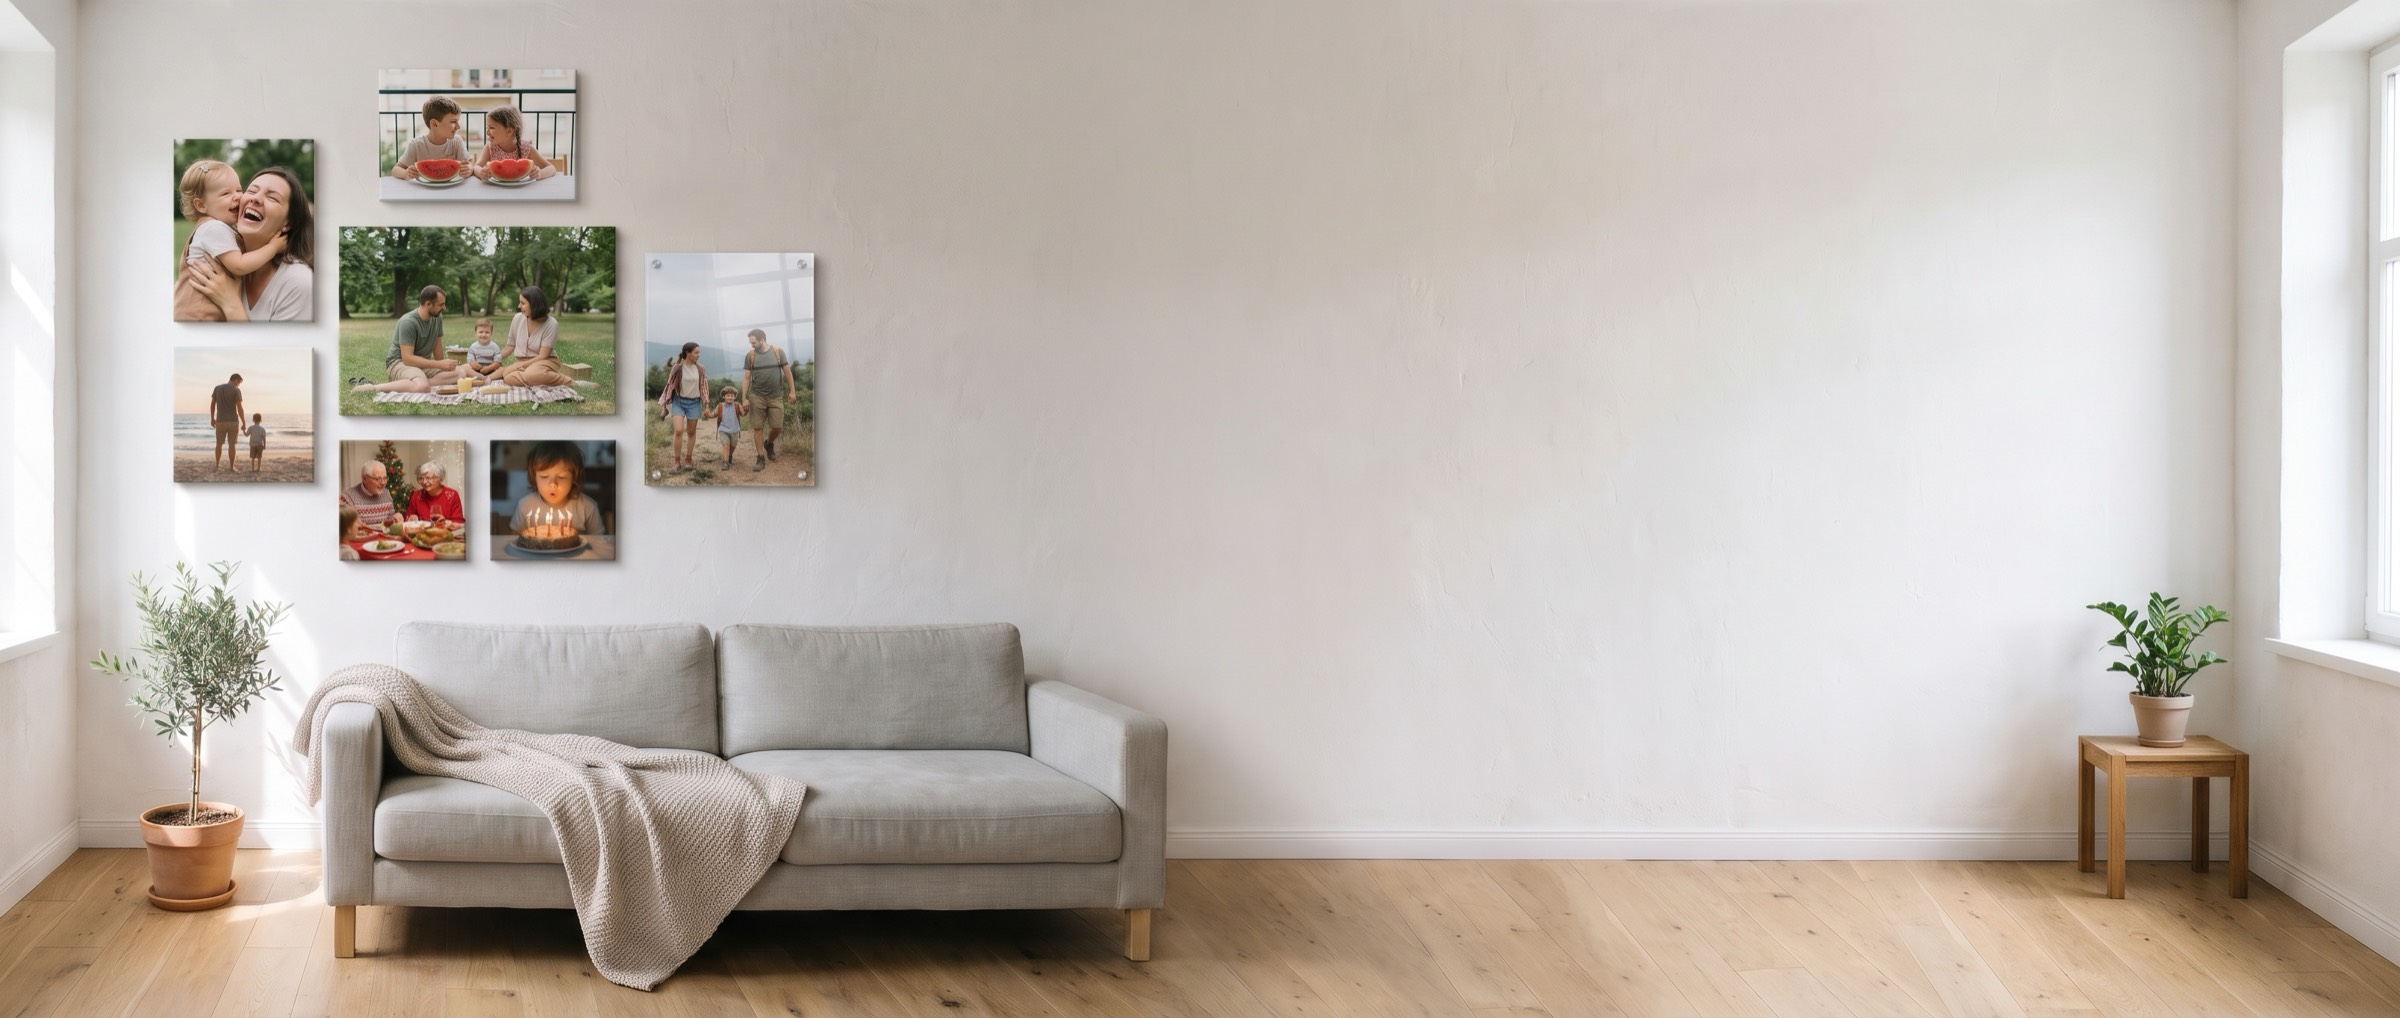
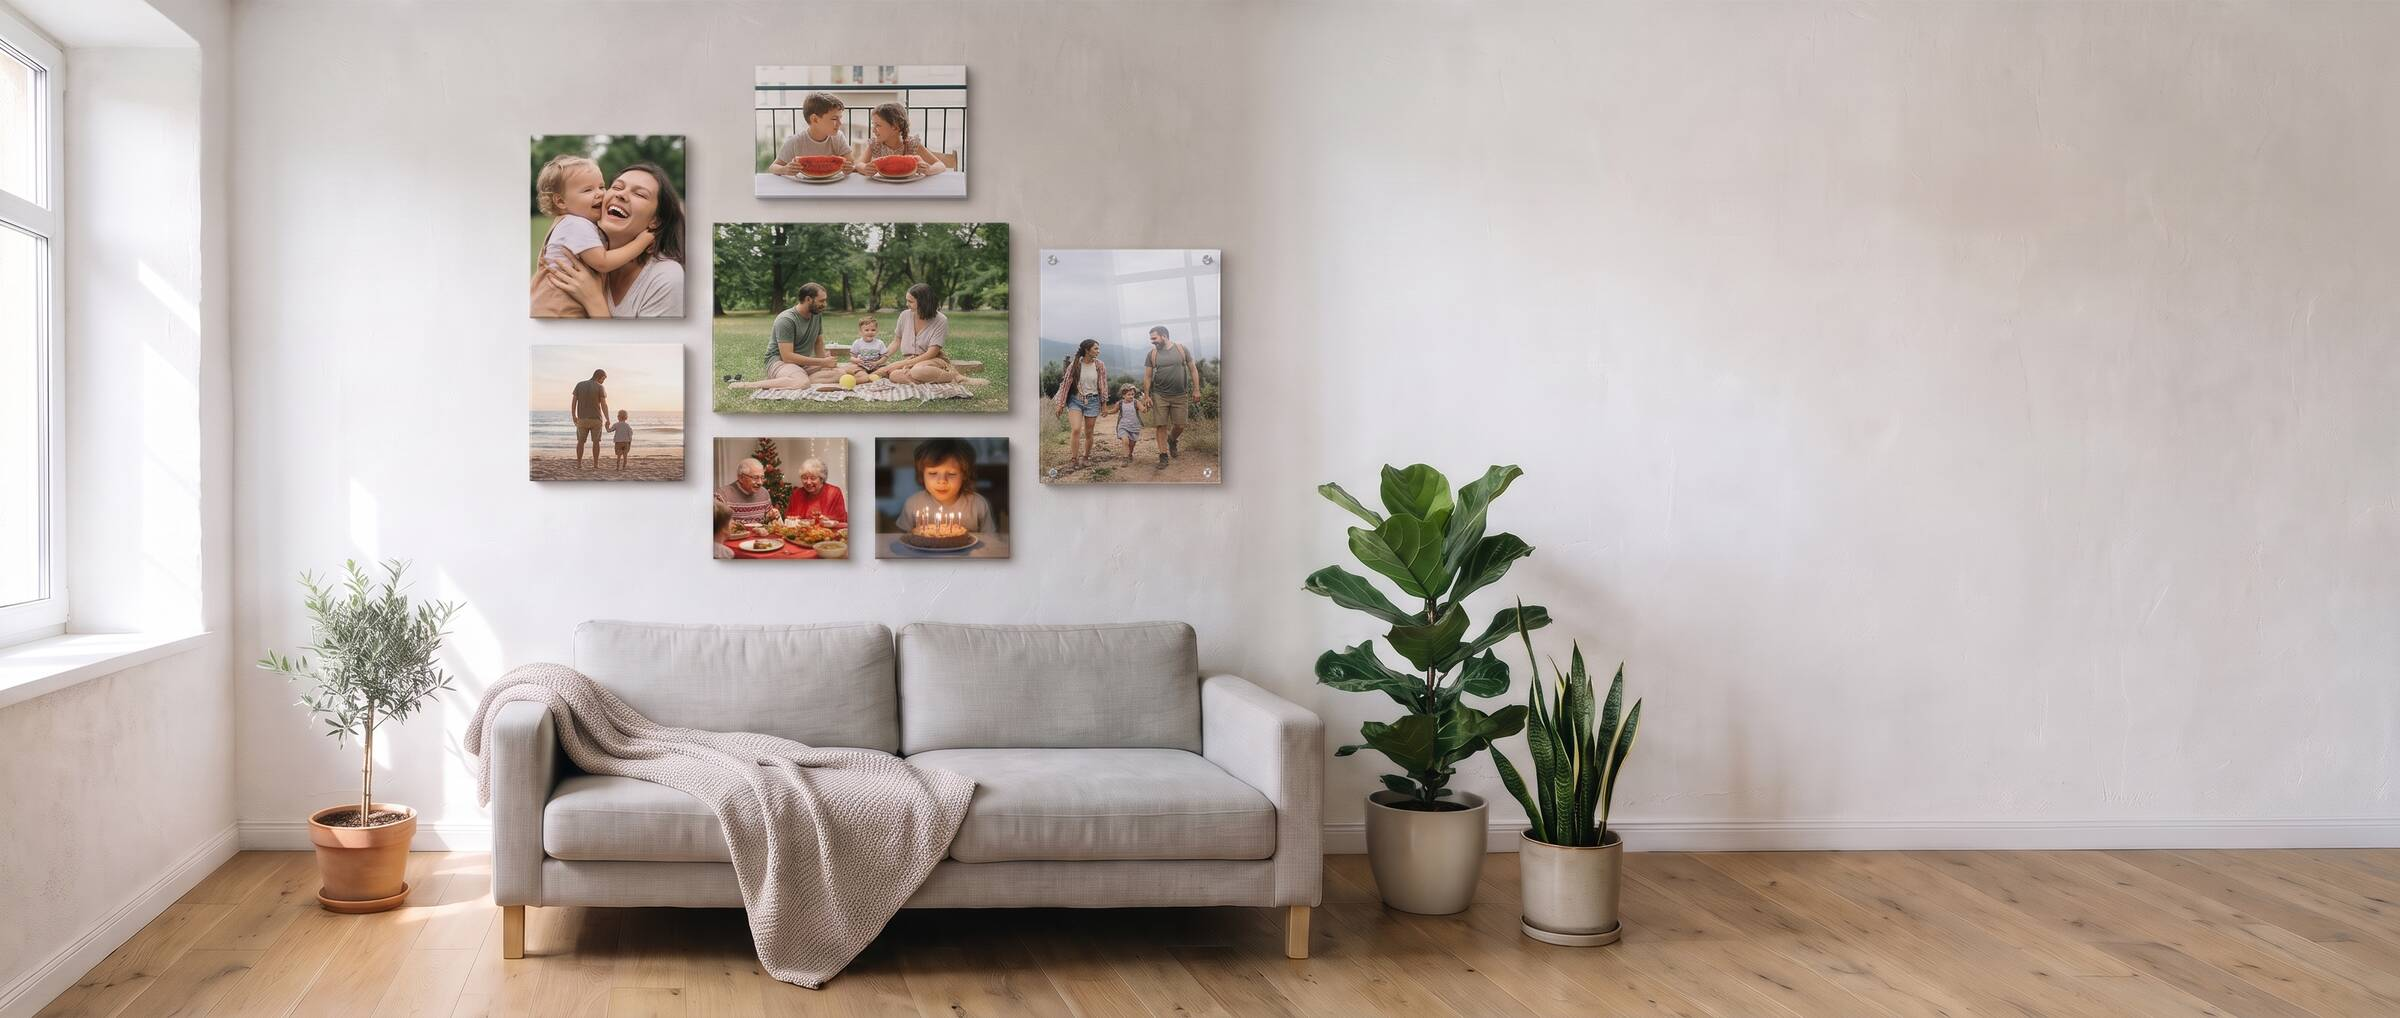
Hero: prints centred above the sofa (Gemini edit), tighter text fade

diff --git a/prototype/styles.css b/prototype/styles.css
@@ -71,10 +71,10 @@ p { margin:0; }
   .hero-bg { position:absolute; inset:0; }
   .hero-bg img { height:100%; max-height:none; object-position:35% 45%; }
   /* RTL: text sits on the right, so only the right side fades */
-  .hero-bg::after { background:linear-gradient(to left, rgb(255 255 255 / .93) 0%, rgb(255 255 255 / .86) 34%, rgb(255 255 255 / 0) 56%); }
+  .hero-bg::after { background:linear-gradient(to left, rgb(255 255 255 / .93) 0%, rgb(255 255 255 / .86) 30%, rgb(255 255 255 / 0) 46%); }
   .hero-copy { margin-top:0; padding-block:72px; width:100%; }
-  .hero-text { max-width:520px; }
-  .hero h1 { font-size:52px; }
+  .hero-text { max-width:460px; }
+  .hero h1 { font-size:46px; }
   .hero .ctas { flex-direction:row; }
 }
 .section { padding:48px 0; }
